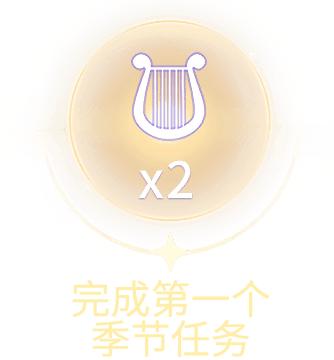
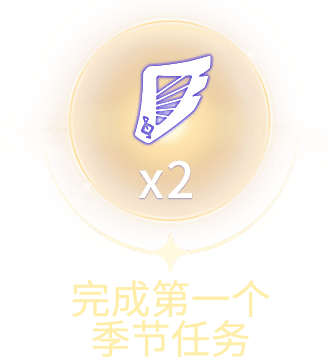
refs #56215 【活动中心】二重奏季季初活跃活动，第一个任务的奖励icon放错了，#56216【活动中心】二重奏季季初活跃活动提示中，古典音乐桌椅魔法的描述错误

Changed region(s): [[0.3892, 0.1222, 0.6587, 0.4278]]

diff --git a/src/views/Season23Start/Season23Start.vue b/src/views/Season23Start/Season23Start.vue
@@ -54,7 +54,7 @@
             <p class="modal-text">
               2、活动期间，获得一件新季节外观，即可领取<span
                 class="text-[#ffcb4d]"
-                >古典音乐桌椅使用魔法*2</span
+                >古典音乐桌椅试用魔法*2</span
               >；
             </p>
             <p class="modal-text">
